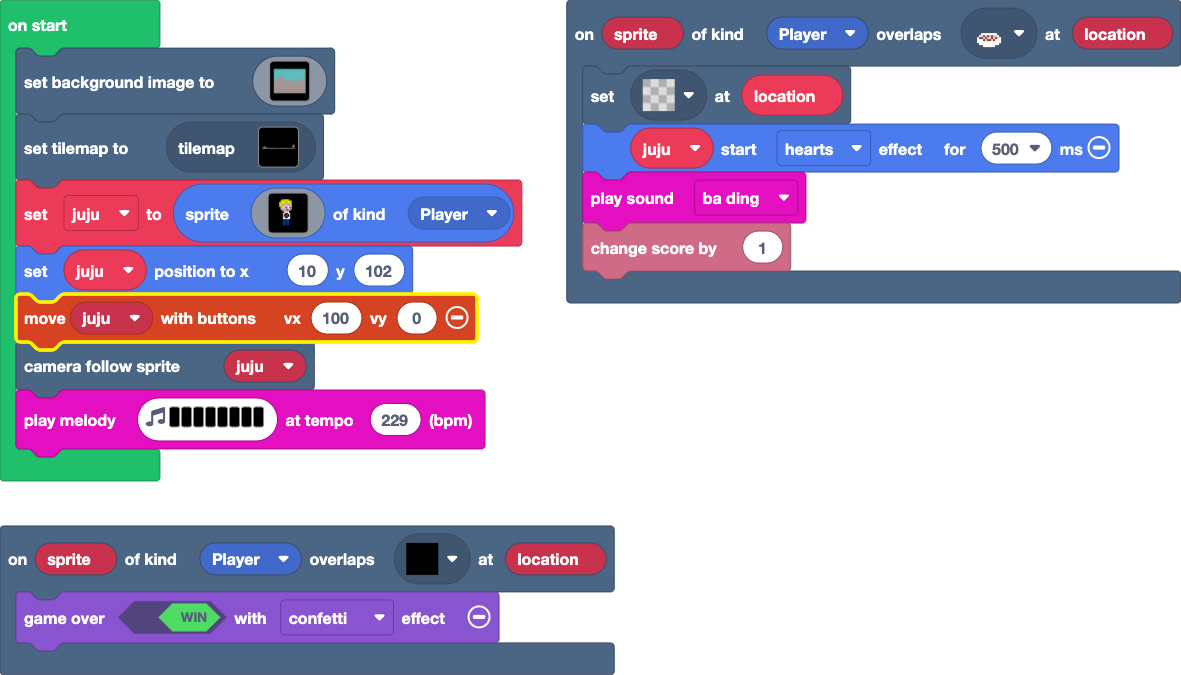
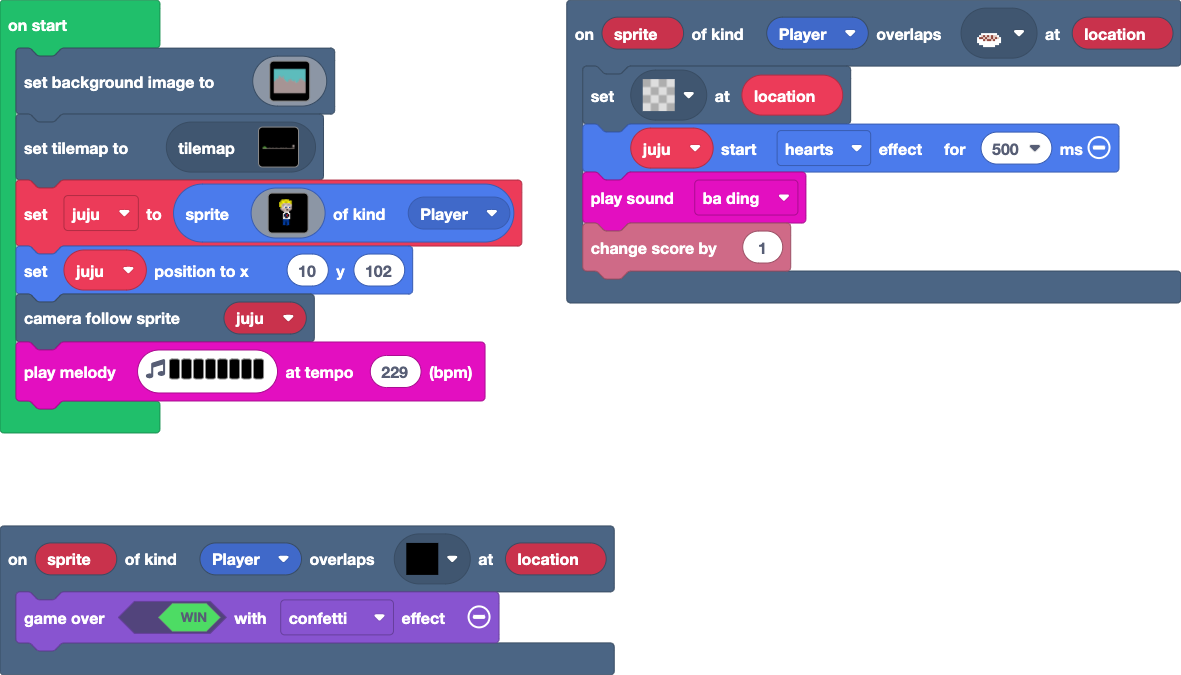
Update main.blocks, main.ts

Changed region(s): [[0.0, 0.4356, 0.4268, 0.7156]]

diff --git a/main.ts b/main.ts
@@ -160,6 +160,5 @@ juju = sprites.create(img`
     ................
     `, SpriteKind.Player)
 juju.setPosition(10, 102)
-controller.moveSprite(juju, 100, 0)
 scene.cameraFollowSprite(juju)
 music.playMelody("C5 - C5 C5 G A E G ", 229)
